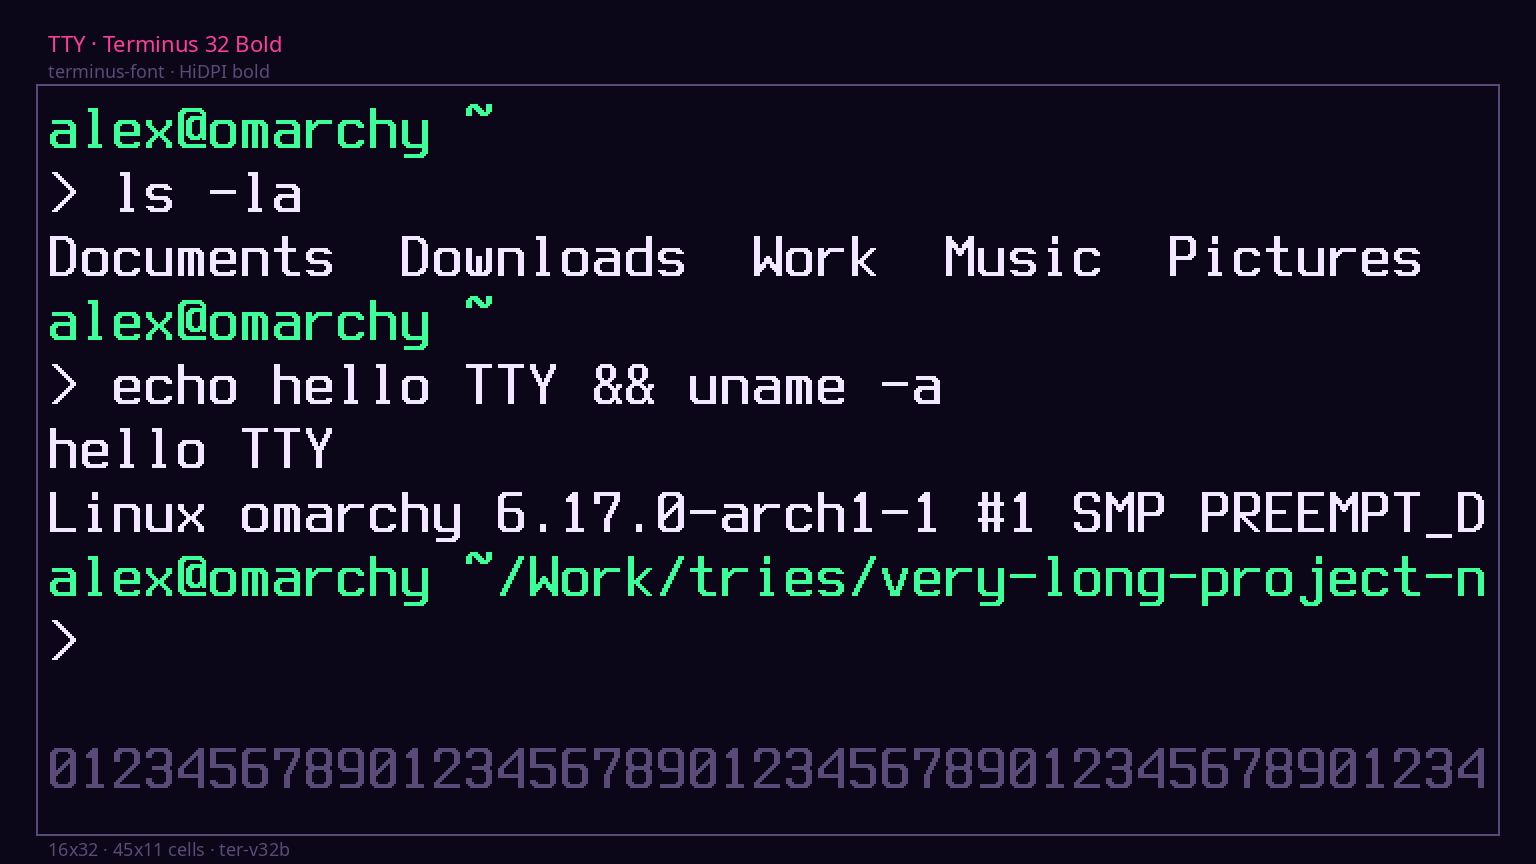
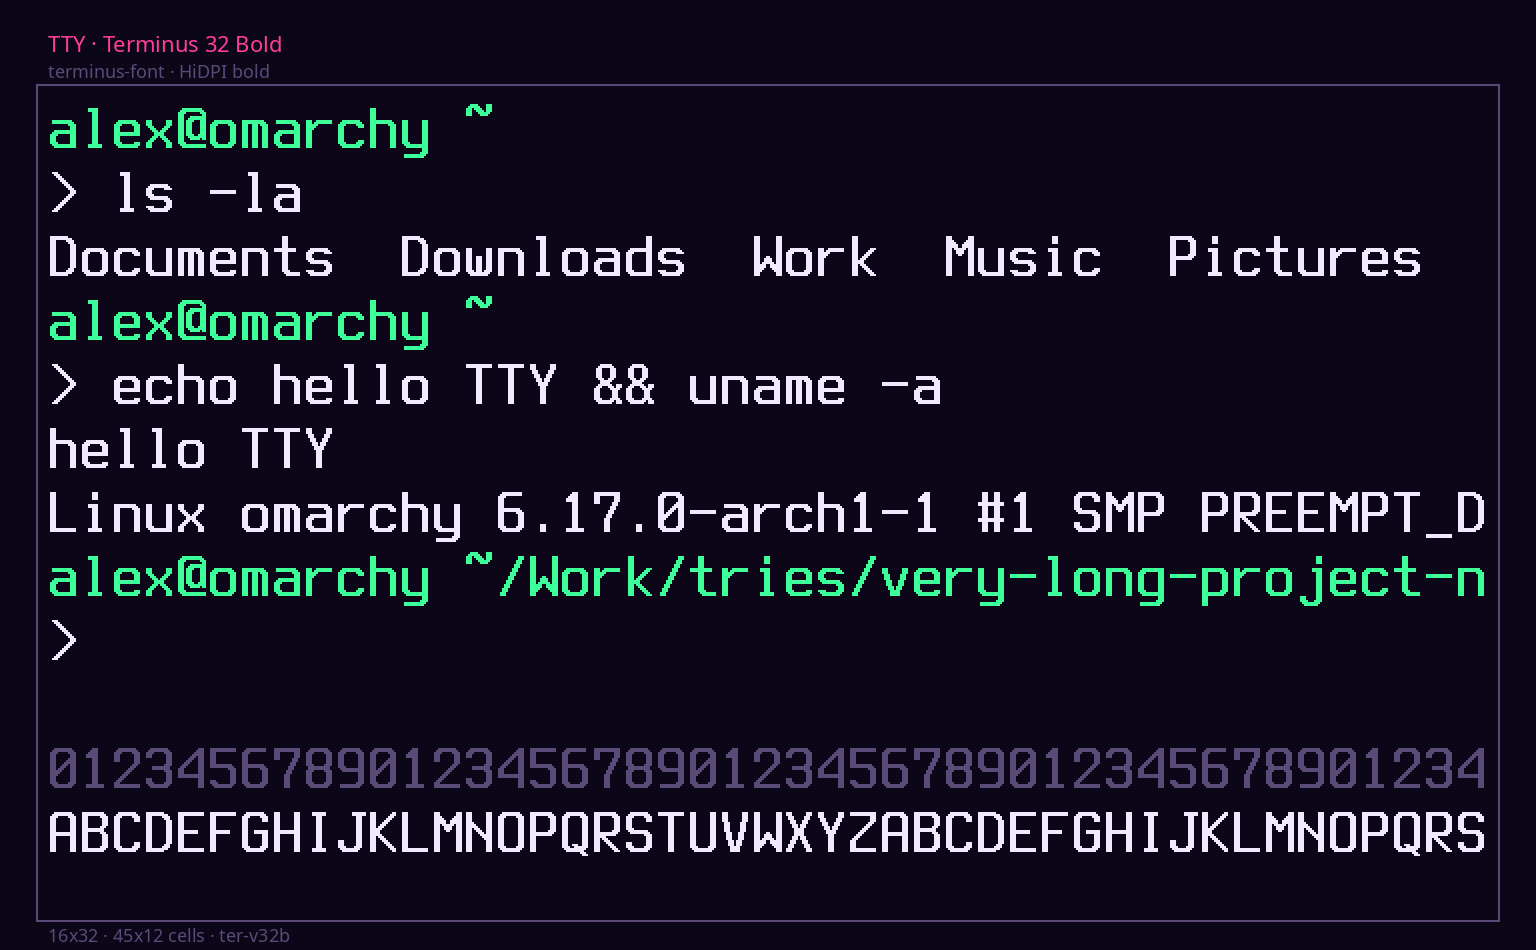
Match TTY font mockups to the Style carousel aspect and document shared goals.
Taller canvas (~768×475 tile ratio) plus README goals/limits linking OmaVT for
palette pairing without requiring theme authors to ship font assets.

diff --git a/lib/omatty.py b/lib/omatty.py
@@ -667,7 +667,7 @@ def render_mockup(font_id: str, dest: Path | None = None) -> Path:
     green = _hex_rgb(colors["green"])
 
     # Fixed "monitor" matching omarchy-menu-images thumbnail sweet spot.
-    w, h = 1536, 864
+    w, h = 1536, 950
     pad_x, header_h, footer_h, frame = 48, 96, 40, 12
 
     # Constant zoom so glyph size alone decides how much fits — same as a
@@ -746,7 +746,7 @@ def render_missing_mockup(font_id: str, dest: Path) -> Path:
     fg = _hex_rgb(colors["fg"])
     accent = _hex_rgb(colors["accent"])
     muted = _hex_rgb(colors["muted"])
-    w, h = 1536, 864
+    w, h = 1536, 950
     img = Image.new("RGB", (w, h), bg)
     draw = ImageDraw.Draw(img)
     ui = try_ui_font(28)

diff --git a/README.md b/README.md
@@ -23,6 +23,20 @@ OmaTTY keeps a curated Terminus-first set, renders each with the **actual
 bitmap glyphs**, and applies with sudo the same way Style → Unlock / Boot
 Themes do.
 
+## Goals (and honest limits)
+
+These Style plugins extend Omarchy’s theme system **without requiring theme
+authors — or you — to ship anything extra**. Fonts come from packages on the
+machine (`kbd`, `terminus-font`); themes are not asked for font assets.
+
+| Goal | What that means here |
+|------|----------------------|
+| Zero extra theme assets | No per-theme font previews. Glyphs come from installed PSF files. |
+| Extreme compatibility | Works beside any Omarchy theme; pairs with [OmaVT](https://github.com/AlxWolfenstein97/omavt) for palette. |
+| Closest-to-real mockups | Actual PSF bitmaps in a fake VT frame — still not a live `/dev/tty` capture. |
+| Carousel-safe | Mockups match the Style tile aspect (~768×475) so edge chrome is not cropped. |
+| Curated, not exhaustive | archinstall lists every console font; Style keeps a Terminus-first set so the picker stays usable. |
+
 ## What you get
 
 - **Style → TTY Fonts** — labelled image picker (`omarchy-menu-images`).
@@ -130,6 +144,7 @@ bash ~/.config/omarchy/plugins/io.github.alxwolfenstein97.omatty/check.sh
 ## Credits
 
 - Sibling Style plugins: [OmaBoot](https://github.com/AlxWolfenstein97/omaboot),
+  [OmaVT](https://github.com/AlxWolfenstein97/omavt),
   [OmaOBS](https://github.com/AlxWolfenstein97/omaobs).
 - [archinstall](https://github.com/archlinux/archinstall) Console font menu /
   `terminus-font` auto-strap.
